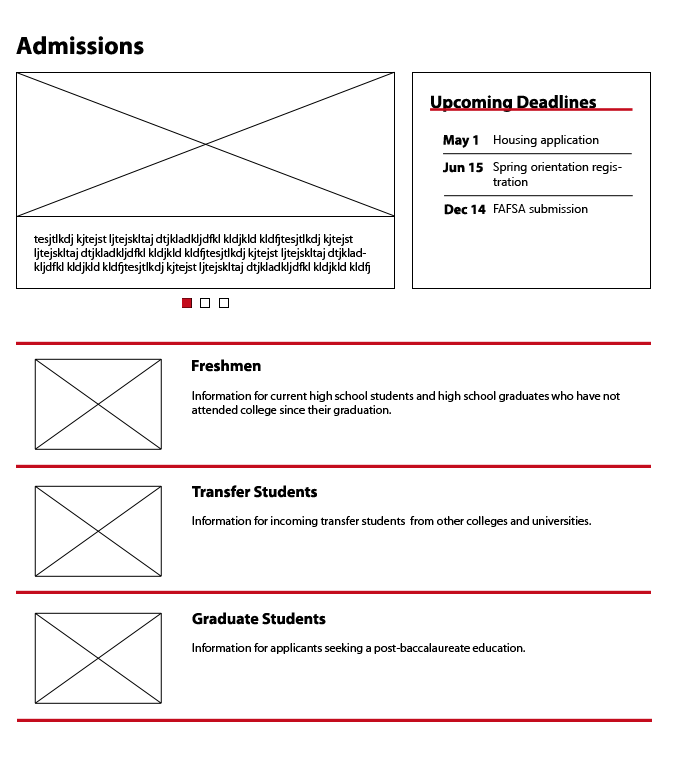
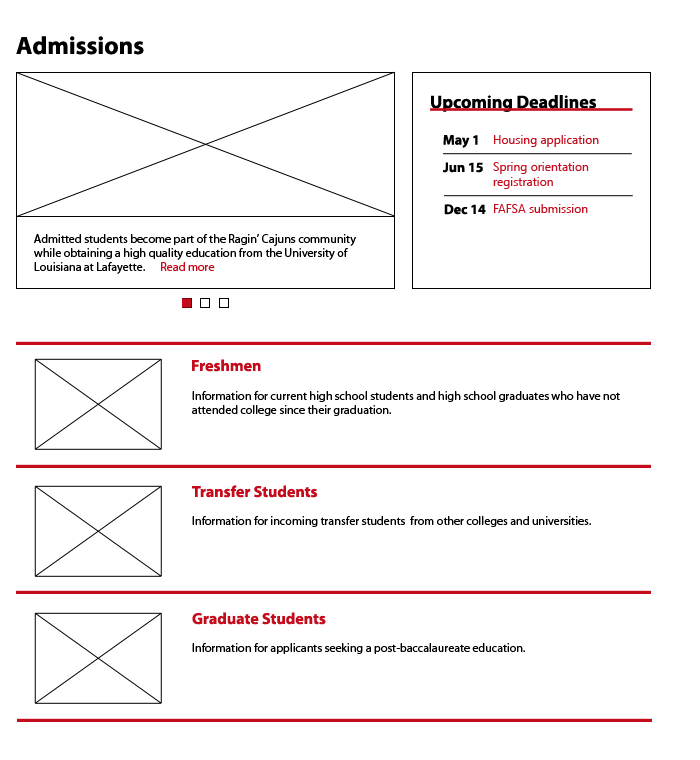
pretty much done now

diff --git a/about.html b/about.html
@@ -59,12 +59,10 @@
 			<ul>
 			
 			<li><a href="home.html">Donate </a></li>
-			<li><a href="home.html">Calendar<a></li>
+			<li><a href="home.html">Calendar</a></li>
 			<li><a href="home.html">Maps </a></li>
 			<li><a href="home.html">Home </a></li>
-			<li><form id="searchbar" class="navbar-search pull-left">
-				<input type="text" class="search-query" placeholder="Search">
-			</form></li>
+			<li><form id="searchbar" class="navbar-search pull-left"><input type="text" class="search-query" placeholder="Search"></form></li>
 			
 			</ul>
 			
@@ -112,7 +110,7 @@
     <a href="home.html">Home</a> <span class="divider">/</span>
   </li>
   <li>
-    <a href="about.html">About</a> <span class="divider">/</span>
+    <a href="academics.html">Academics</a> <span class="divider">/</span>
   </li>
   
 </ul>
@@ -134,9 +132,10 @@
 			<li><a href="http://louisiana.edu/AboutUs/Mission.shtml">Mission Statement</a></li>
 			<li><a href="http://www.ull.edu/Advancement/PRNS/media/fastfacts.shtml">Quick Facts</a></li>
 			<li><a href="http://www.louisiana.edu/AboutUs/History/">History</a></li>
-			<li><a href="#">Offices and Administrations</a></li>
-			<li><a href="#">Campus Services</a></li>
 			<li><a href="#">Media</a></li>
+			<li><a href="#">Offices and Administrations</a></li>
+			
+			
 			
 		</ul>
 		

diff --git a/home.html b/home.html
@@ -205,7 +205,8 @@
 				
 					<div class="span3">
 					<div id="lowerinfo">
-						<h2>News:</h2> news and stuff
+						<h2>News:</h2> University of Louisiana at Lafayette and Drexel University Establish 
+National Science Foundation Industry/University Cooperative Research Center
 							
 						
 					</div>	
@@ -220,8 +221,9 @@
 					
 				
 				<div class="span3">
-					
-				<h2>Информация:</h2> больее о чём нам хотеться сказать, ну ладно, что мы хотем разсказать здесь?
+					Visit the university art museum <br />
+					<img src="images/mus.jpg">
+				
 				</div>
 				</div>
 				

diff --git a/academics.html b/academics.html
@@ -134,8 +134,7 @@
 			<li><a href="#">Academic Calendars</a></li>
 			<li><a href="#">Departments and Programs</a></li>
 			<li><a href="#">Course Catalogue</a></li>
-			<li><a href="#">Honors Program</a></li>
-			<li><a href="#">Student Support</a></li>
+			
 			<li><a href="#">Online/Distance Learning</a></li>
 			
 		</ul>

diff --git a/admissions.html b/admissions.html
@@ -131,11 +131,10 @@
 		
 		<ul>
 			
-			<li><a href="#">Freshman</a></li>
+			<li><a href="#">Freshmen</a></li>
 			<li><a href="#">Transfer Students</a></li>
 			<li><a href="#">Graduate Students</a></li>
-			<li><a href="#">Parents</a></li>
-			<li><a href="#">International Students</a></li>
+			
 			
 			
 		</ul>

diff --git a/stylesheets/lib/bootstrap.css b/stylesheets/lib/bootstrap.css
@@ -2611,7 +2611,7 @@ button.btn.small, input[type="submit"].btn.small {
 }
 .breadcrumb {
   
-  margin:  0px 0px 0px 15px;
+  margin:  0px 0px 0px 125px;
   background: url('../images/husk.png') ;
  
   filter: progid:DXImageTransform.Microsoft.gradient(startColorstr='#ffffff', endColorstr='#f5f5f5', GradientType=0);

diff --git a/studentlife.html b/studentlife.html
@@ -134,8 +134,8 @@
 			<li><a href="#">Housing</a></li>
 			<li><a href="#">Student Services</a></li>
 			<li><a href="#">Student Organizations</a></li>
-			<li><a href="#">Living in Lafayette/a></li>
-			<li><a href="#">Arts & Culture</a></li>
+			<li><a href="#">Living in Lafayette</a></li>
+			
 			
 			
 		</ul>

diff --git a/stylesheets/main.css b/stylesheets/main.css
@@ -87,6 +87,11 @@ ul {
 list-style-type: none;
 }
 
+#breadcrumb{
+margin-right:200px;
+
+}
+
 .breadcrumb a{
 color:black;
 
